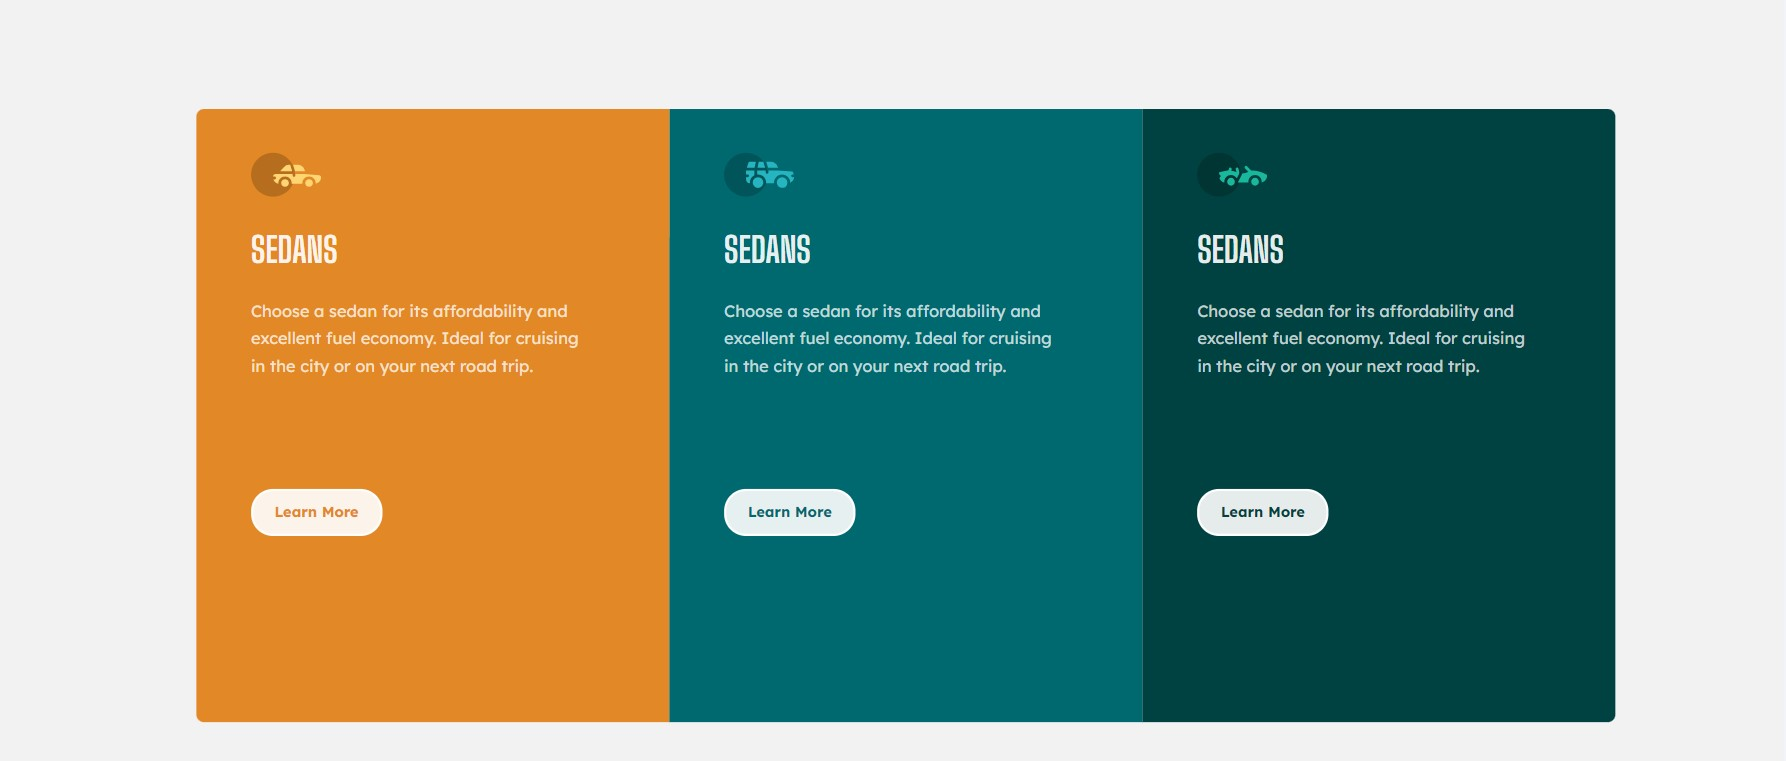
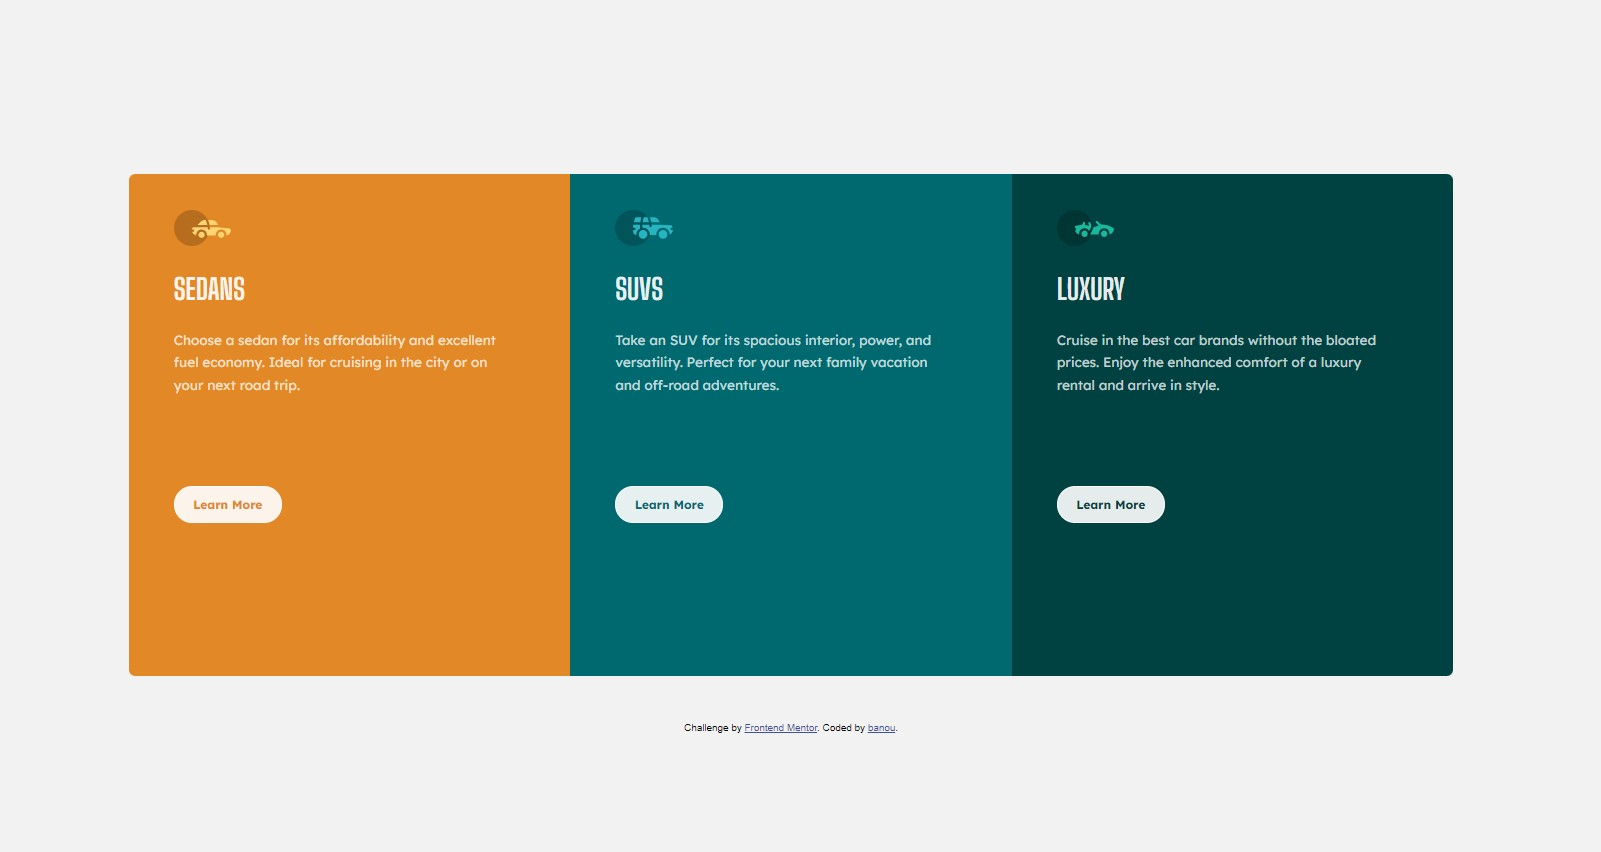
fix

Changed region(s): [[0.0625, 0.1209, 0.9057, 0.9671]]

diff --git a/3-column-preview-card-component-main/index.html b/3-column-preview-card-component-main/index.html
@@ -61,9 +61,8 @@
             <img src="images/icon-suvs.svg" alt="suvs">
           </section>
           <section class="col--text">
-            <h1 class="big-shoulders-700">SEDANS</h1>
-            <p class="lexend-deca-400"> Choose a sedan for its affordability and excellent fuel economy. Ideal for cruising in the city
-              or on your next road trip.</p>
+            <h1 class="big-shoulders-700">SUVS</h1>
+            <p class="lexend-deca-400"> Take an SUV for its spacious interior, power, and versatility. Perfect for your next family vacation and off-road adventures.</p>
           </section>
           <section class="col--bottom">
             <a href="#">
@@ -76,9 +75,8 @@
             <img src="images/icon-luxury.svg" alt="luxury">
           </section>
           <section class="col--text">
-            <h1 class="big-shoulders-700">SEDANS</h1>
-            <p class="lexend-deca-400"> Choose a sedan for its affordability and excellent fuel economy. Ideal for cruising in the city
-              or on your next road trip.</p>
+            <h1 class="big-shoulders-700">LUXURY</h1>
+            <p class="lexend-deca-400"> Cruise in the best car brands without the bloated prices. Enjoy the enhanced comfort of a luxury rental and arrive in style.</p>
           </section>
           <section class="col--bottom">
             <a href="#">
@@ -89,9 +87,10 @@
       </div>
     </div>
 
+  
     <div class="attribution">
       Challenge by <a href="https://www.frontendmentor.io?ref=challenge" target="_blank">Frontend Mentor</a>.
-      Coded by <a href="#">Your Name Here</a>.
+      Coded by <a href="https://github.com/sophia-banou" target="_blank">banou</a>.
     </div>
   </div>
 
